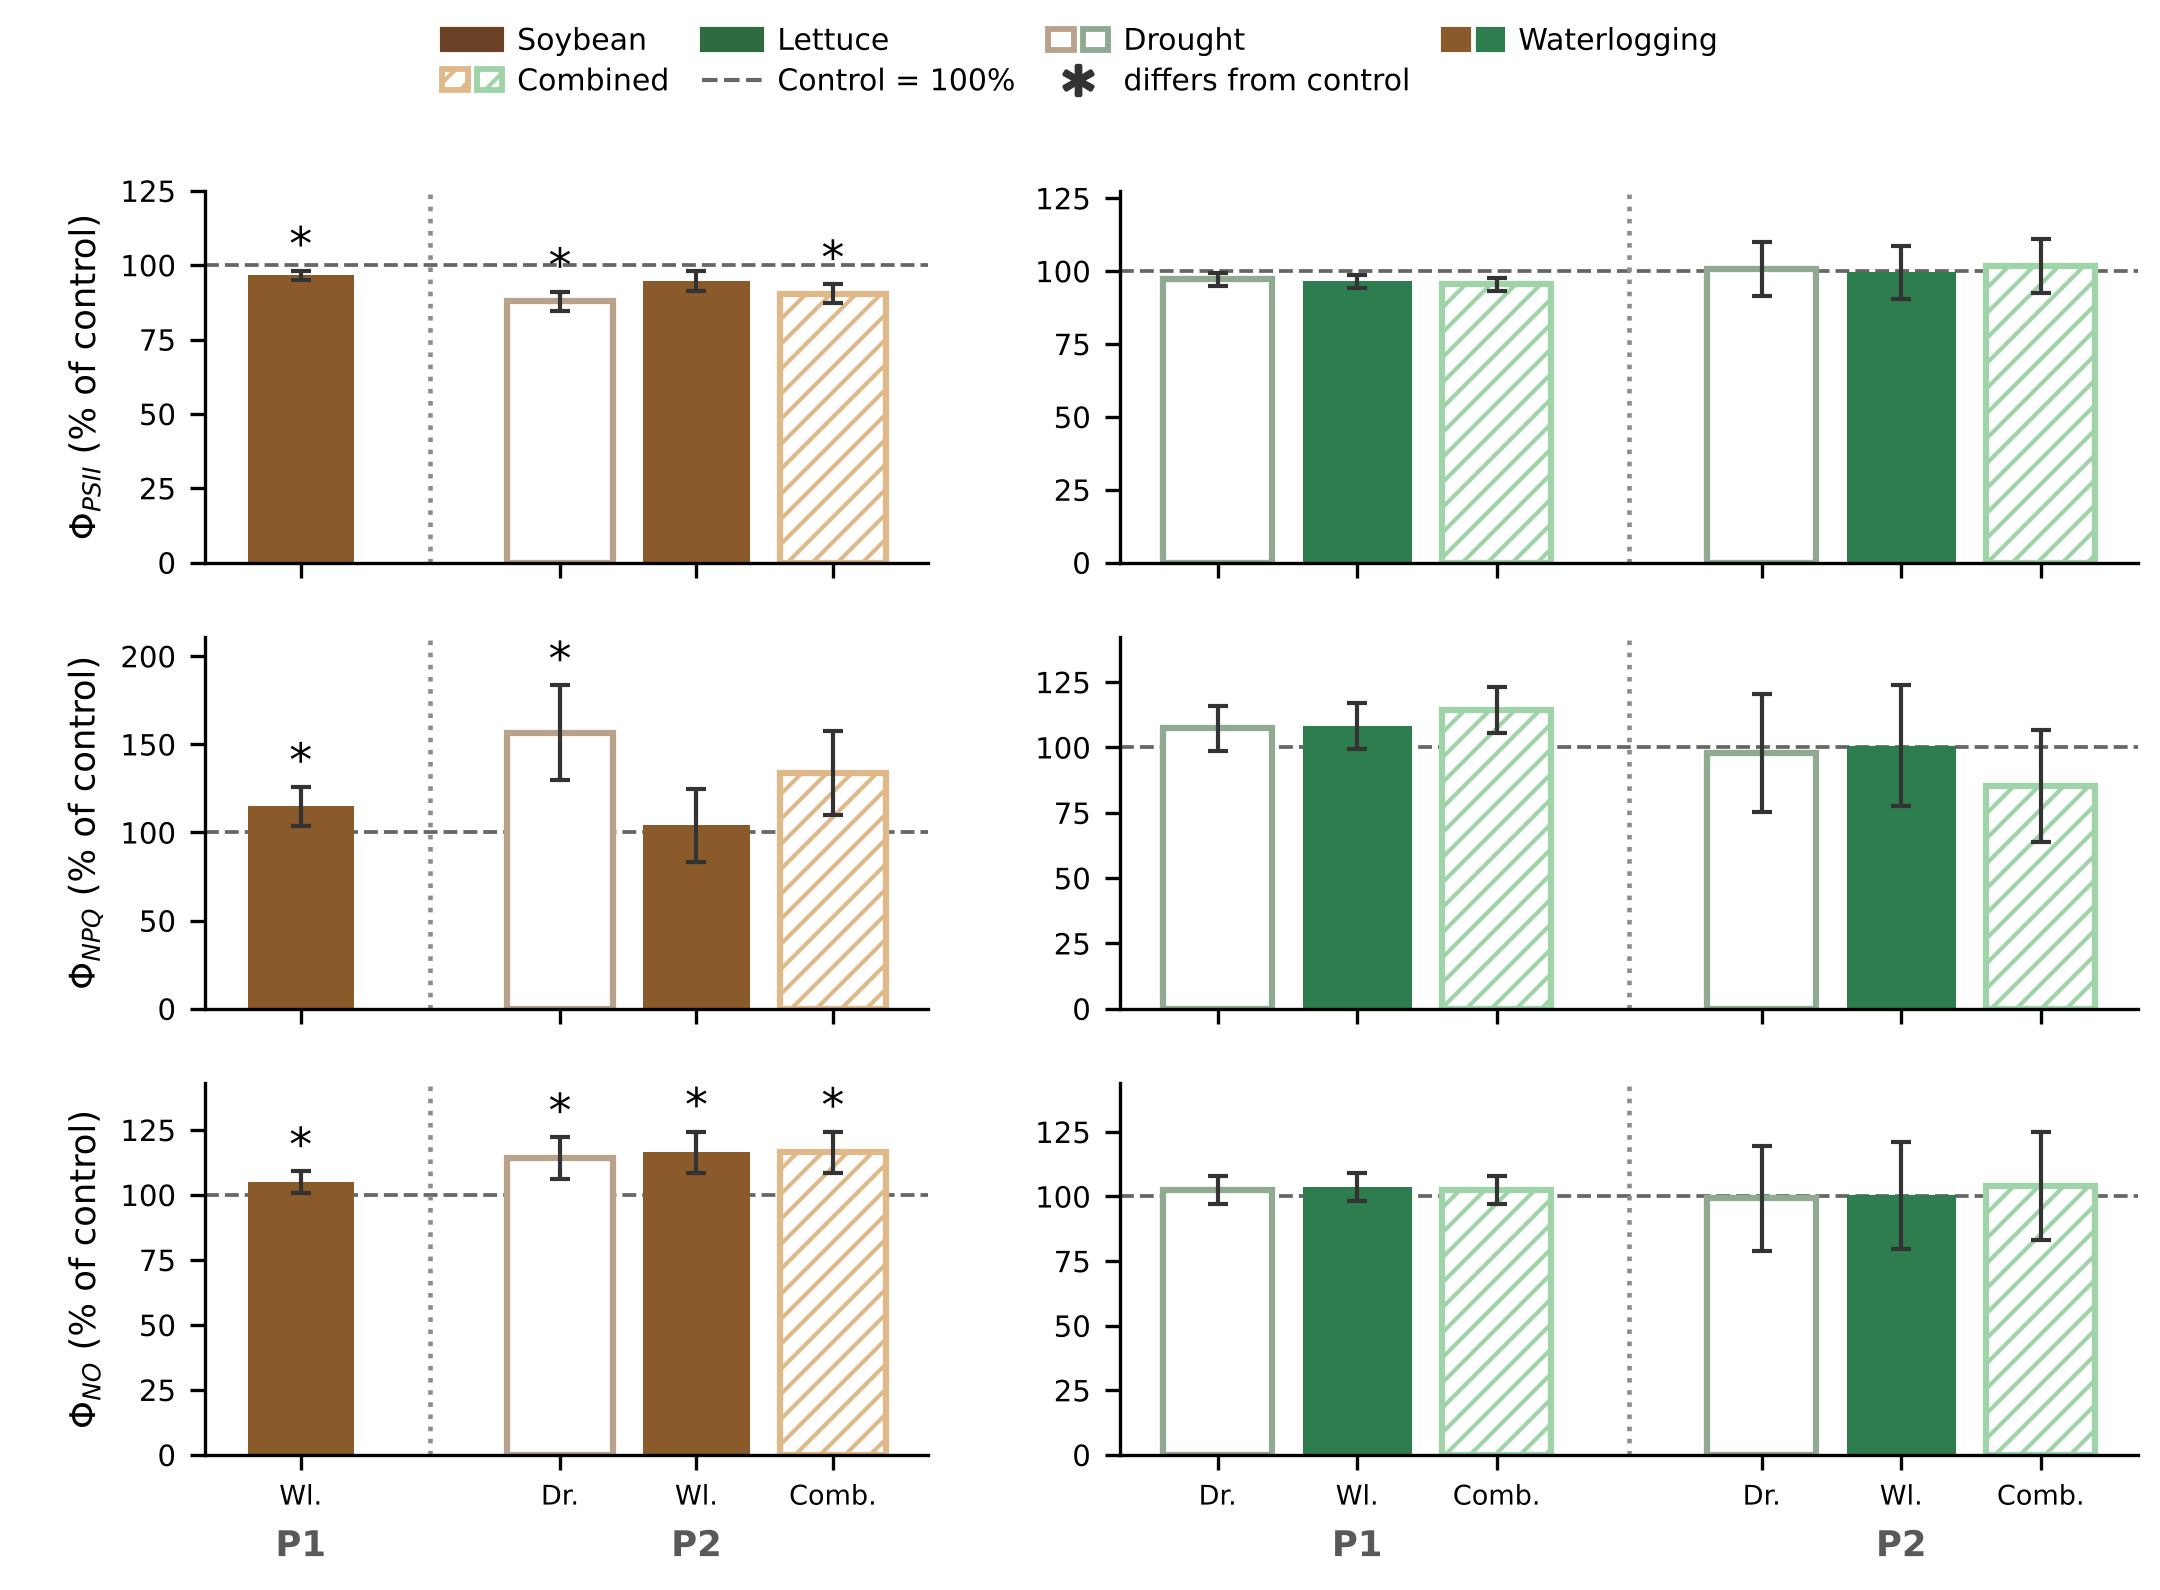
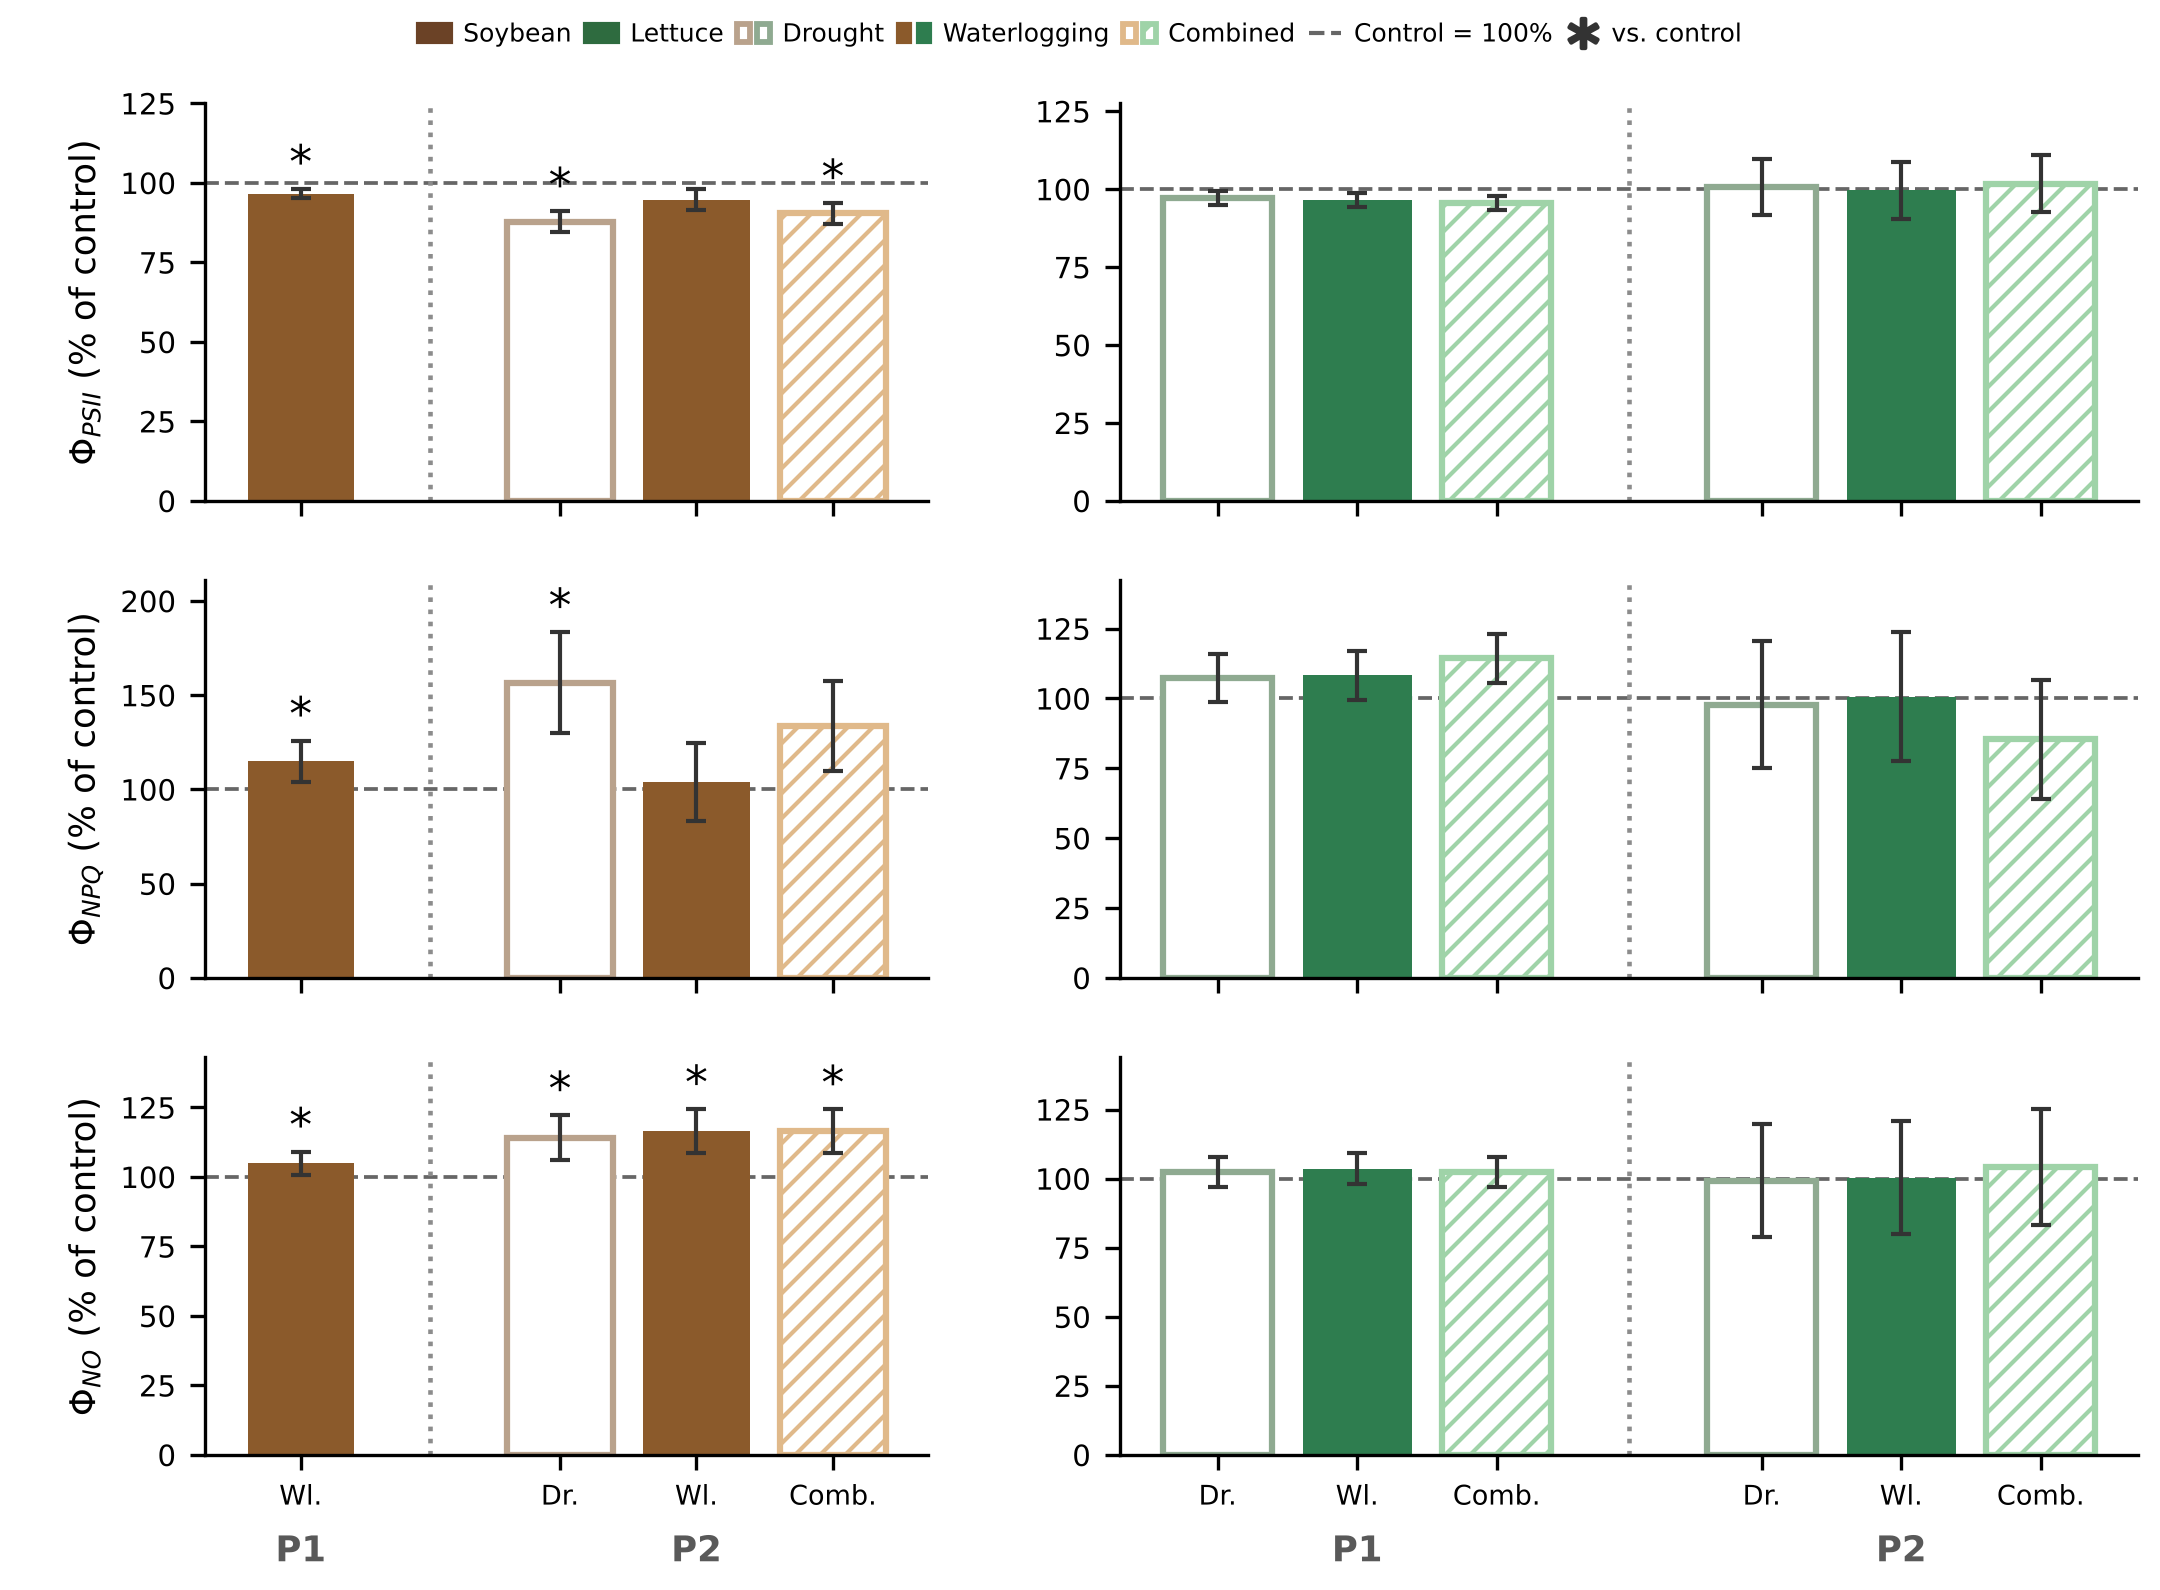
명반응 막대 그래프 2종 범례 한 줄로 정리
Claude-Session: https://claude.ai/code/session_01UmxmETyGrZNmWrhahjyccu

diff --git a/03_코드/oral_deck/bars/fig_v14.py b/03_코드/oral_deck/bars/fig_v14.py
@@ -28,8 +28,8 @@ def make(inds,size,fname,adjust):
     for i,ind in enumerate(inds):
         for j,crop in enumerate(['bean','lettuce']): pct_panel(axs[i,j],ind,crop,xlab=(i==r-1),ylab=(j==0))
     hs=[(tuple(Patch(color=CROPC[c][t]) if FILLED[t] else Patch(facecolor='white',edgecolor=CROPC[c][t],lw=1.4,hatch='////' if t=='침수ETc50' else None) for c in ('bean','lettuce')),NAME[t]) for t in TR]
-    legend2(fig,E_crops()+hs+[(Line2D([],[],color='0.4',ls='--',lw=1),'Control = 100%')]+([] if r==1 else [(Line2D([],[],color='none',marker='$*$',mfc='0.2',mec='0.2',ms=7),'differs from control')]),6 if r==1 else 4,fontsize=6.6 if r==1 else 7.2,hl=1.6 if r==1 else 2.0,cs=0.9 if r==1 else 1.1)
+    legend2(fig,E_crops()+hs+[(Line2D([],[],color='0.4',ls='--',lw=1),'Control = 100%')]+([] if r==1 else [(Line2D([],[],color='none',marker='$*$',mfc='0.2',mec='0.2',ms=7),'vs. control')]),7 if r>1 else 6,fontsize=6.6 if r==1 else 6.0,hl=1.6 if r==1 else 1.3,cs=0.9 if r==1 else 0.55)
     fig.subplots_adjust(**adjust); fig.savefig('figs5/'+fname); plt.close(fig)
 make(['gsw'],(7.5,2.55),'pct_gsw.png',dict(left=0.09,right=0.99,top=0.86,bottom=0.25,wspace=0.22))
-make(['phi','phinpq','phino'],(7.2,5.3),'pct_phi3.png',dict(left=0.095,right=0.99,top=0.88,bottom=0.085,hspace=0.2,wspace=0.22))
+make(['phi','phinpq','phino'],(7.2,5.3),'pct_phi3.png',dict(left=0.095,right=0.99,top=0.935,bottom=0.085,hspace=0.2,wspace=0.22))
 print('ok')

diff --git a/03_코드/oral_deck/bars/fig_v13.py b/03_코드/oral_deck/bars/fig_v13.py
@@ -47,5 +47,5 @@ def make(inds,size,fname,adjust,lg=dict()):
     legend_bar(fig,**lg); fig.subplots_adjust(**adjust); fig.savefig('figs5/'+fname); plt.close(fig)
 if __name__=='__main__':
     make(['gsw'],(7.5,2.55),'bars_gsw.png',dict(left=0.09,right=0.99,top=0.86,bottom=0.25,wspace=0.22),lg=dict(ncol=6,fs=6.6,cs=0.9,hl=1.6))
-    make(['phi','phinpq','phino'],(7.2,5.3),'bars_phi3.png',dict(left=0.095,right=0.99,top=0.89,bottom=0.085,hspace=0.2,wspace=0.22))
+    make(['phi','phinpq','phino'],(7.2,5.3),'bars_phi3.png',dict(left=0.095,right=0.99,top=0.935,bottom=0.085,hspace=0.2,wspace=0.22),lg=dict(ncol=6,fs=6.3,cs=0.7,hl=1.5))
     print('ok')
